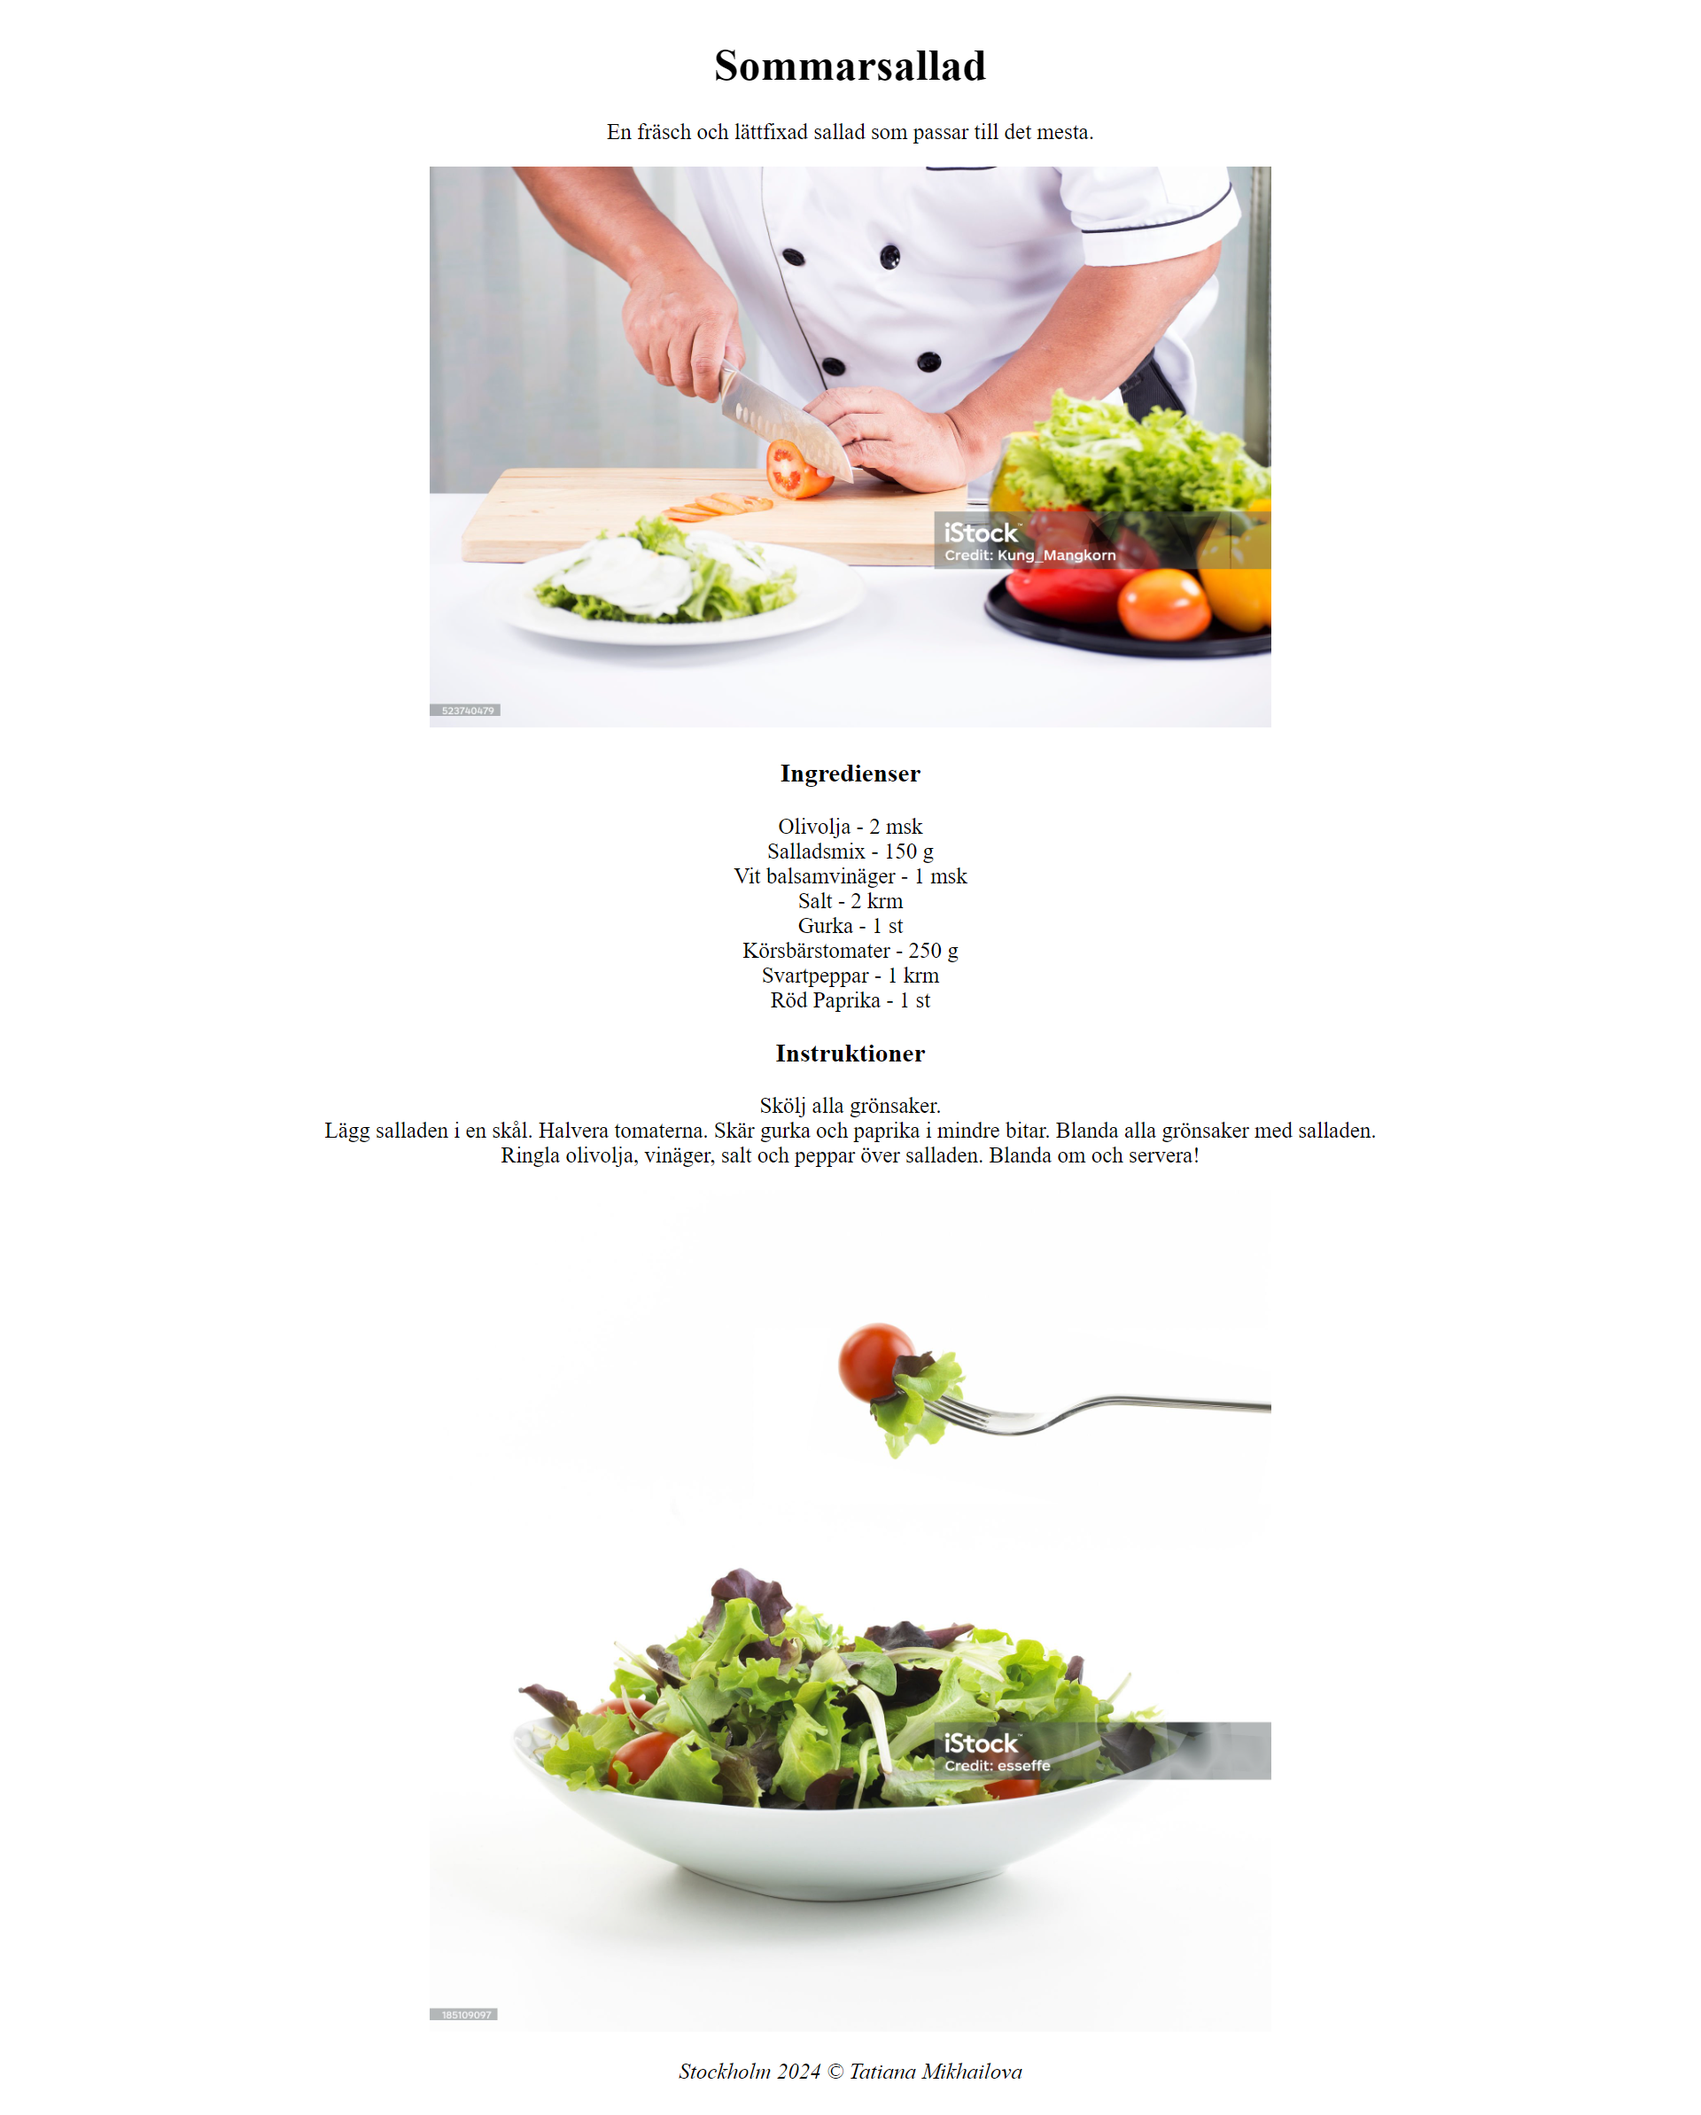
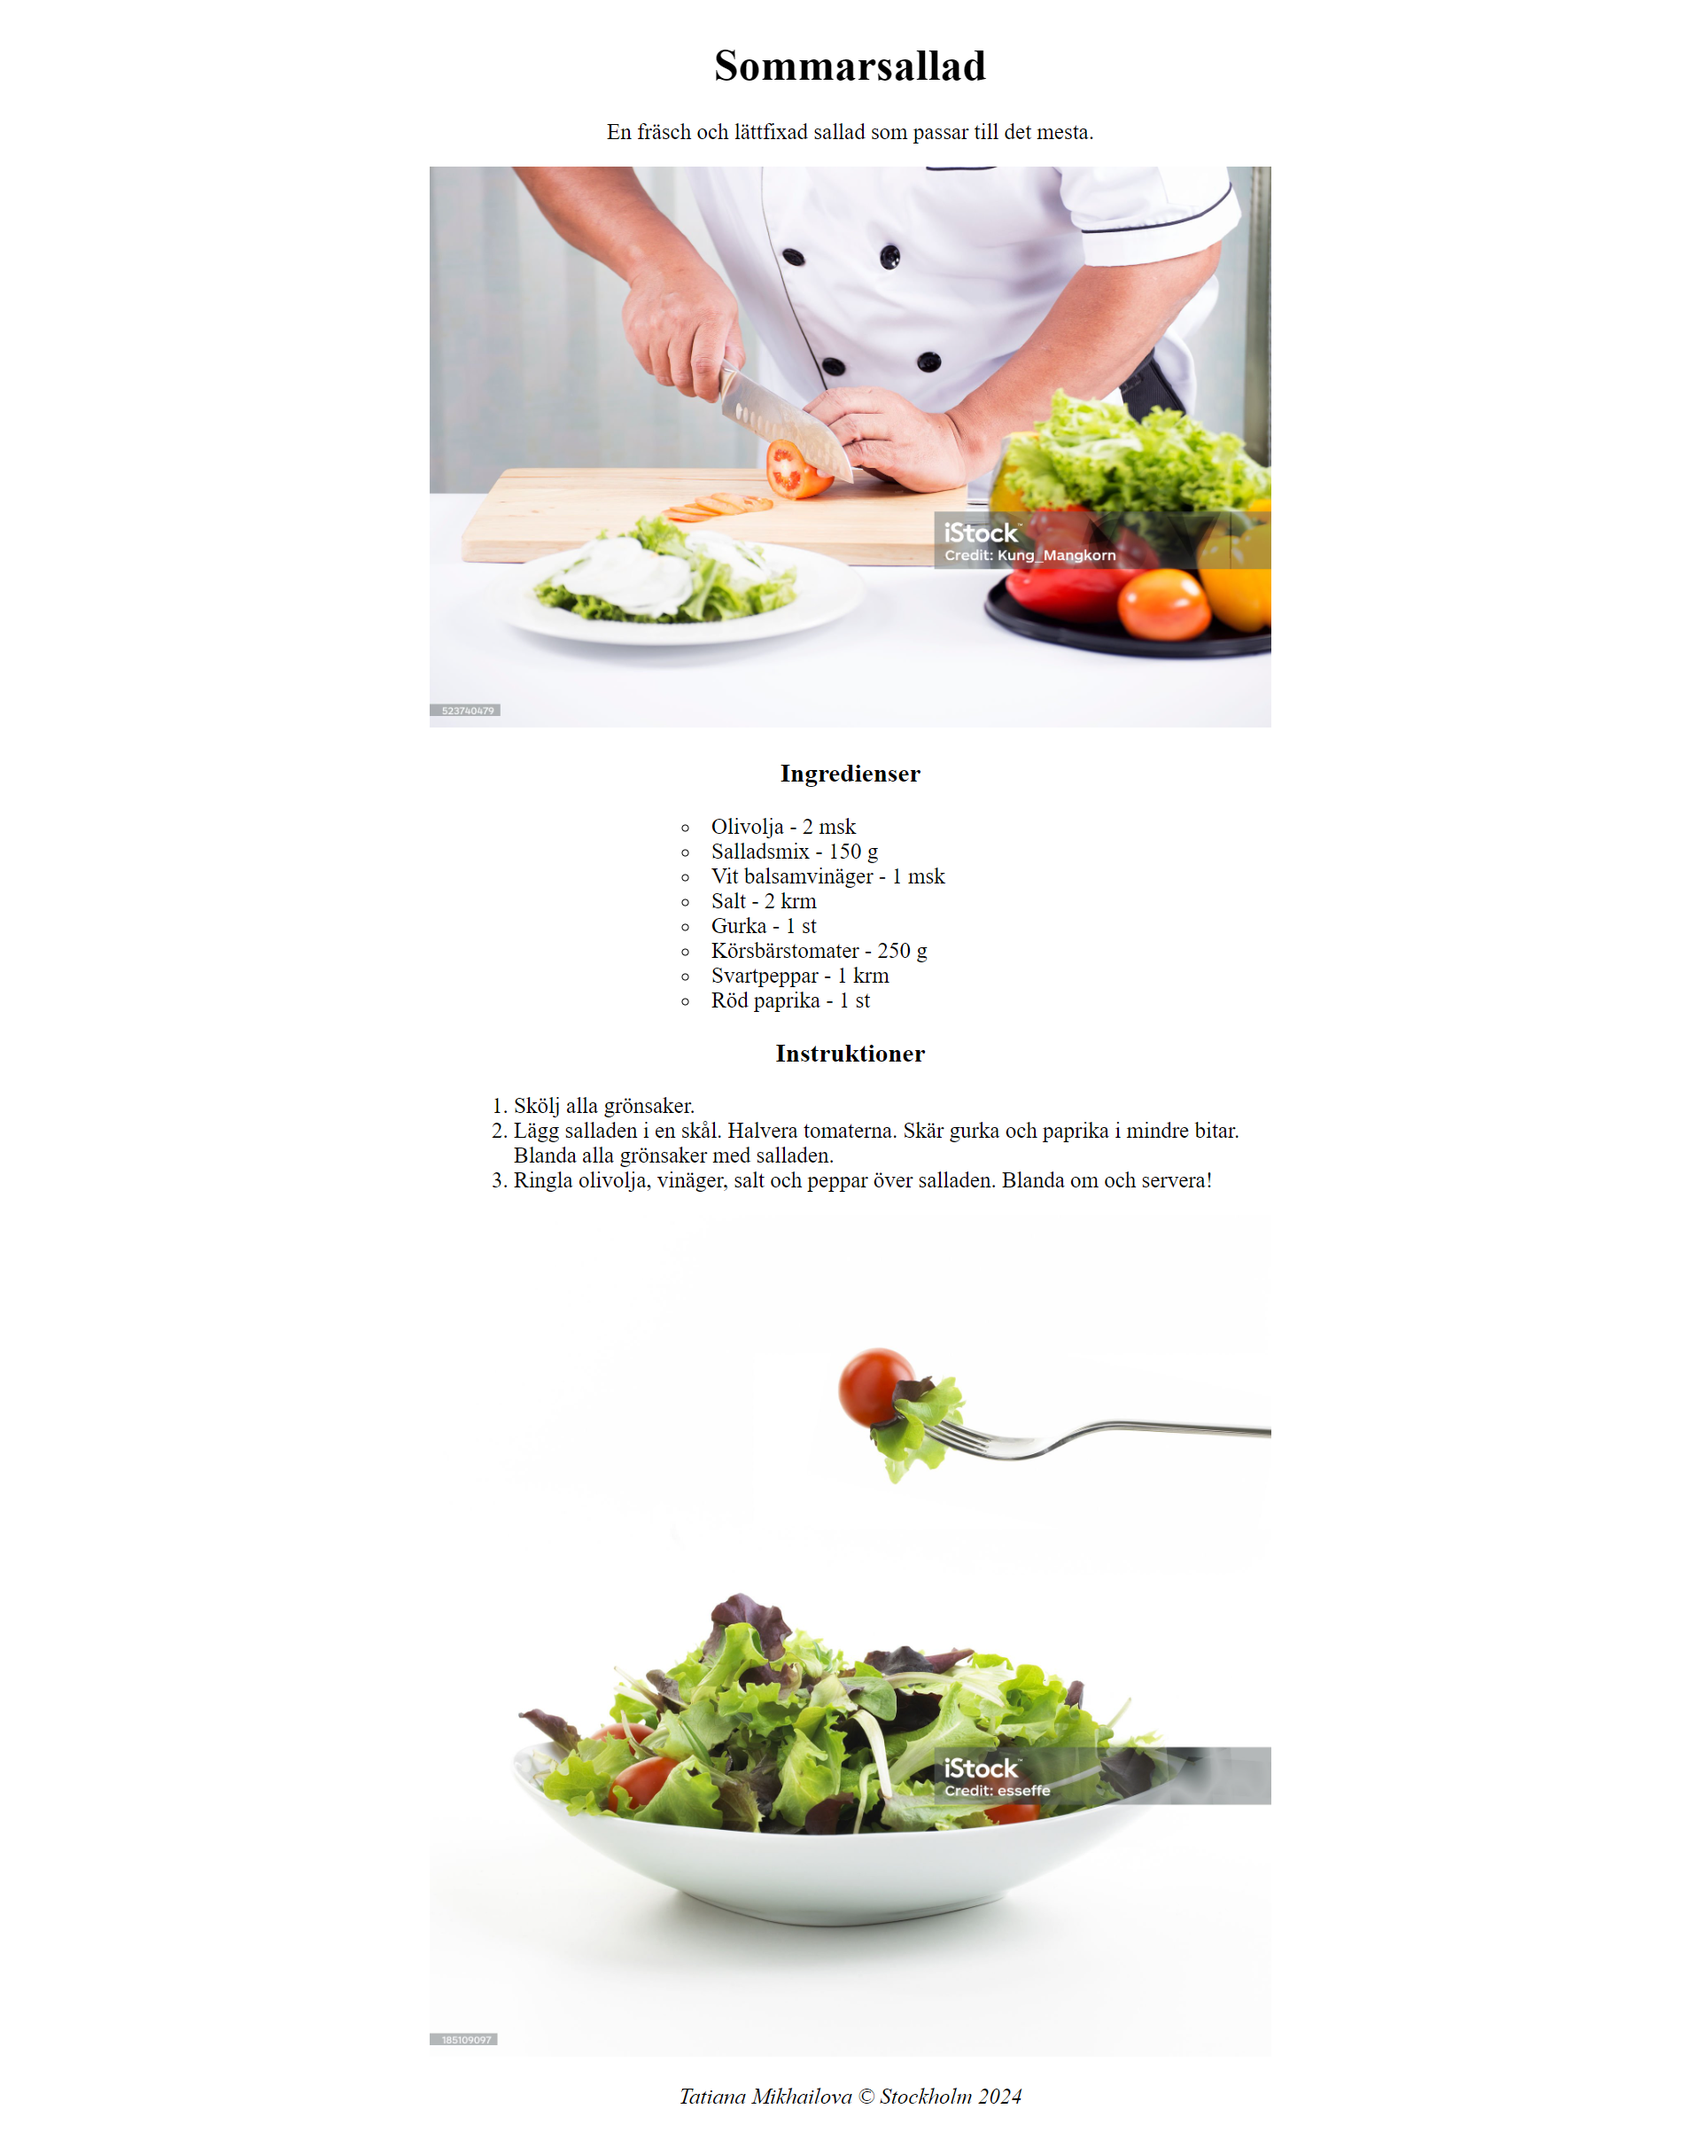
lists' style fix

diff --git a/index.html b/index.html
@@ -23,21 +23,21 @@
                 <li>Gurka - 1 st</li>
                 <li>Körsbärstomater - 250 g</li>
                 <li>Svartpeppar - 1 krm</li>
-                <li>Röd Paprika - 1 st</li>
+                <li>Röd paprika - 1 st</li>
             </ul>
         </section>
         <section>
             <h3>Instruktioner</h3>
-            <ul>
+            <ol>
                 <li>Skölj alla grönsaker.</li>
                 <li>Lägg salladen i en skål. Halvera tomaterna. Skär gurka och paprika i mindre bitar. Blanda alla grönsaker med salladen.</li>
                 <li>Ringla olivolja, vinäger, salt och peppar över salladen. Blanda om och servera!</li>
-            </ul>
+            </ol>
         </section>
         <img src="./img/sallad2.jpg" alt="the ready sallad">
     </main>
     <footer>
-        <p>Stockholm 2024 &copy; Tatiana Mikhailova</p>
+        <p>Tatiana Mikhailova &copy; Stockholm 2024</p>
     </footer>
 </body>
 </html>

diff --git a/css/style.css b/css/style.css
@@ -11,8 +11,17 @@ img {
     width: 50%;
 }
 
+ol {
+    list-style-position: outside;
+    text-align: start;
+    width: 45%;
+    padding-left: 30%;
+}
+
 ul {
-    list-style-type: none;
-    margin: 0, 10%, 0, 10%;
-    padding: 0;
+    text-align: start;
+    list-style-type: circle;
+    list-style-position: inside;
+    width: 25%;
+    padding-left: 40%;
 }
